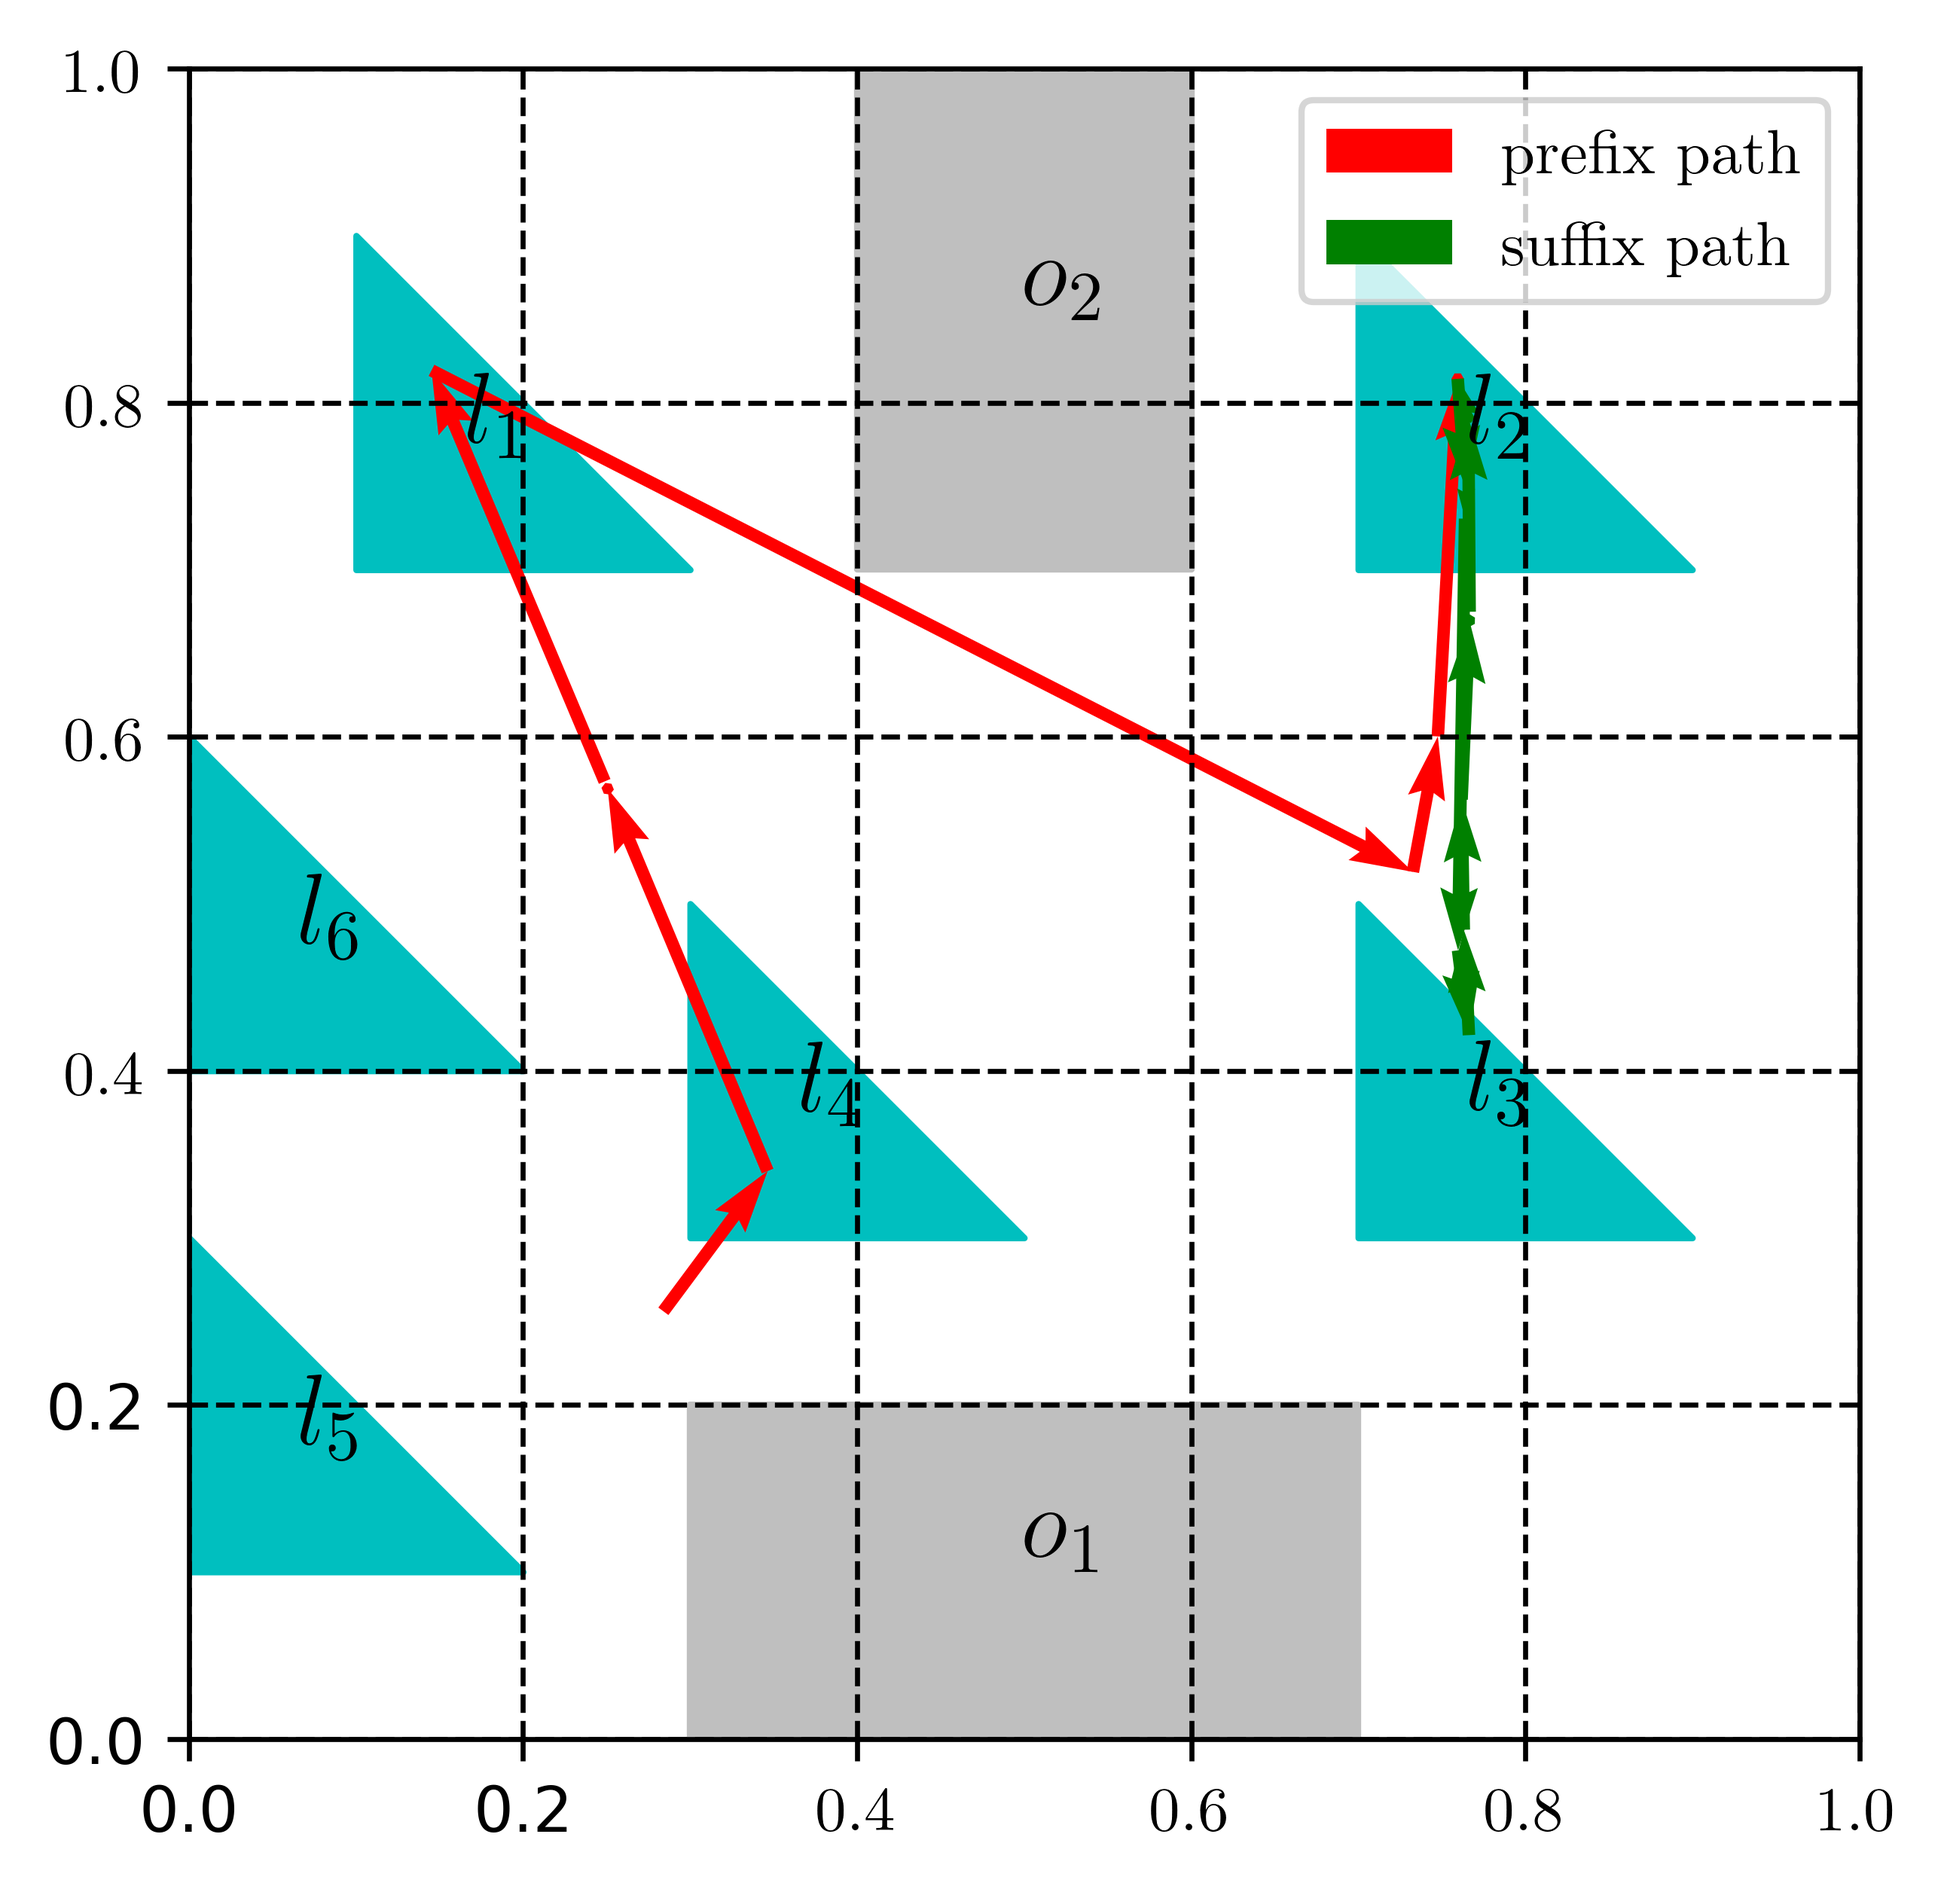
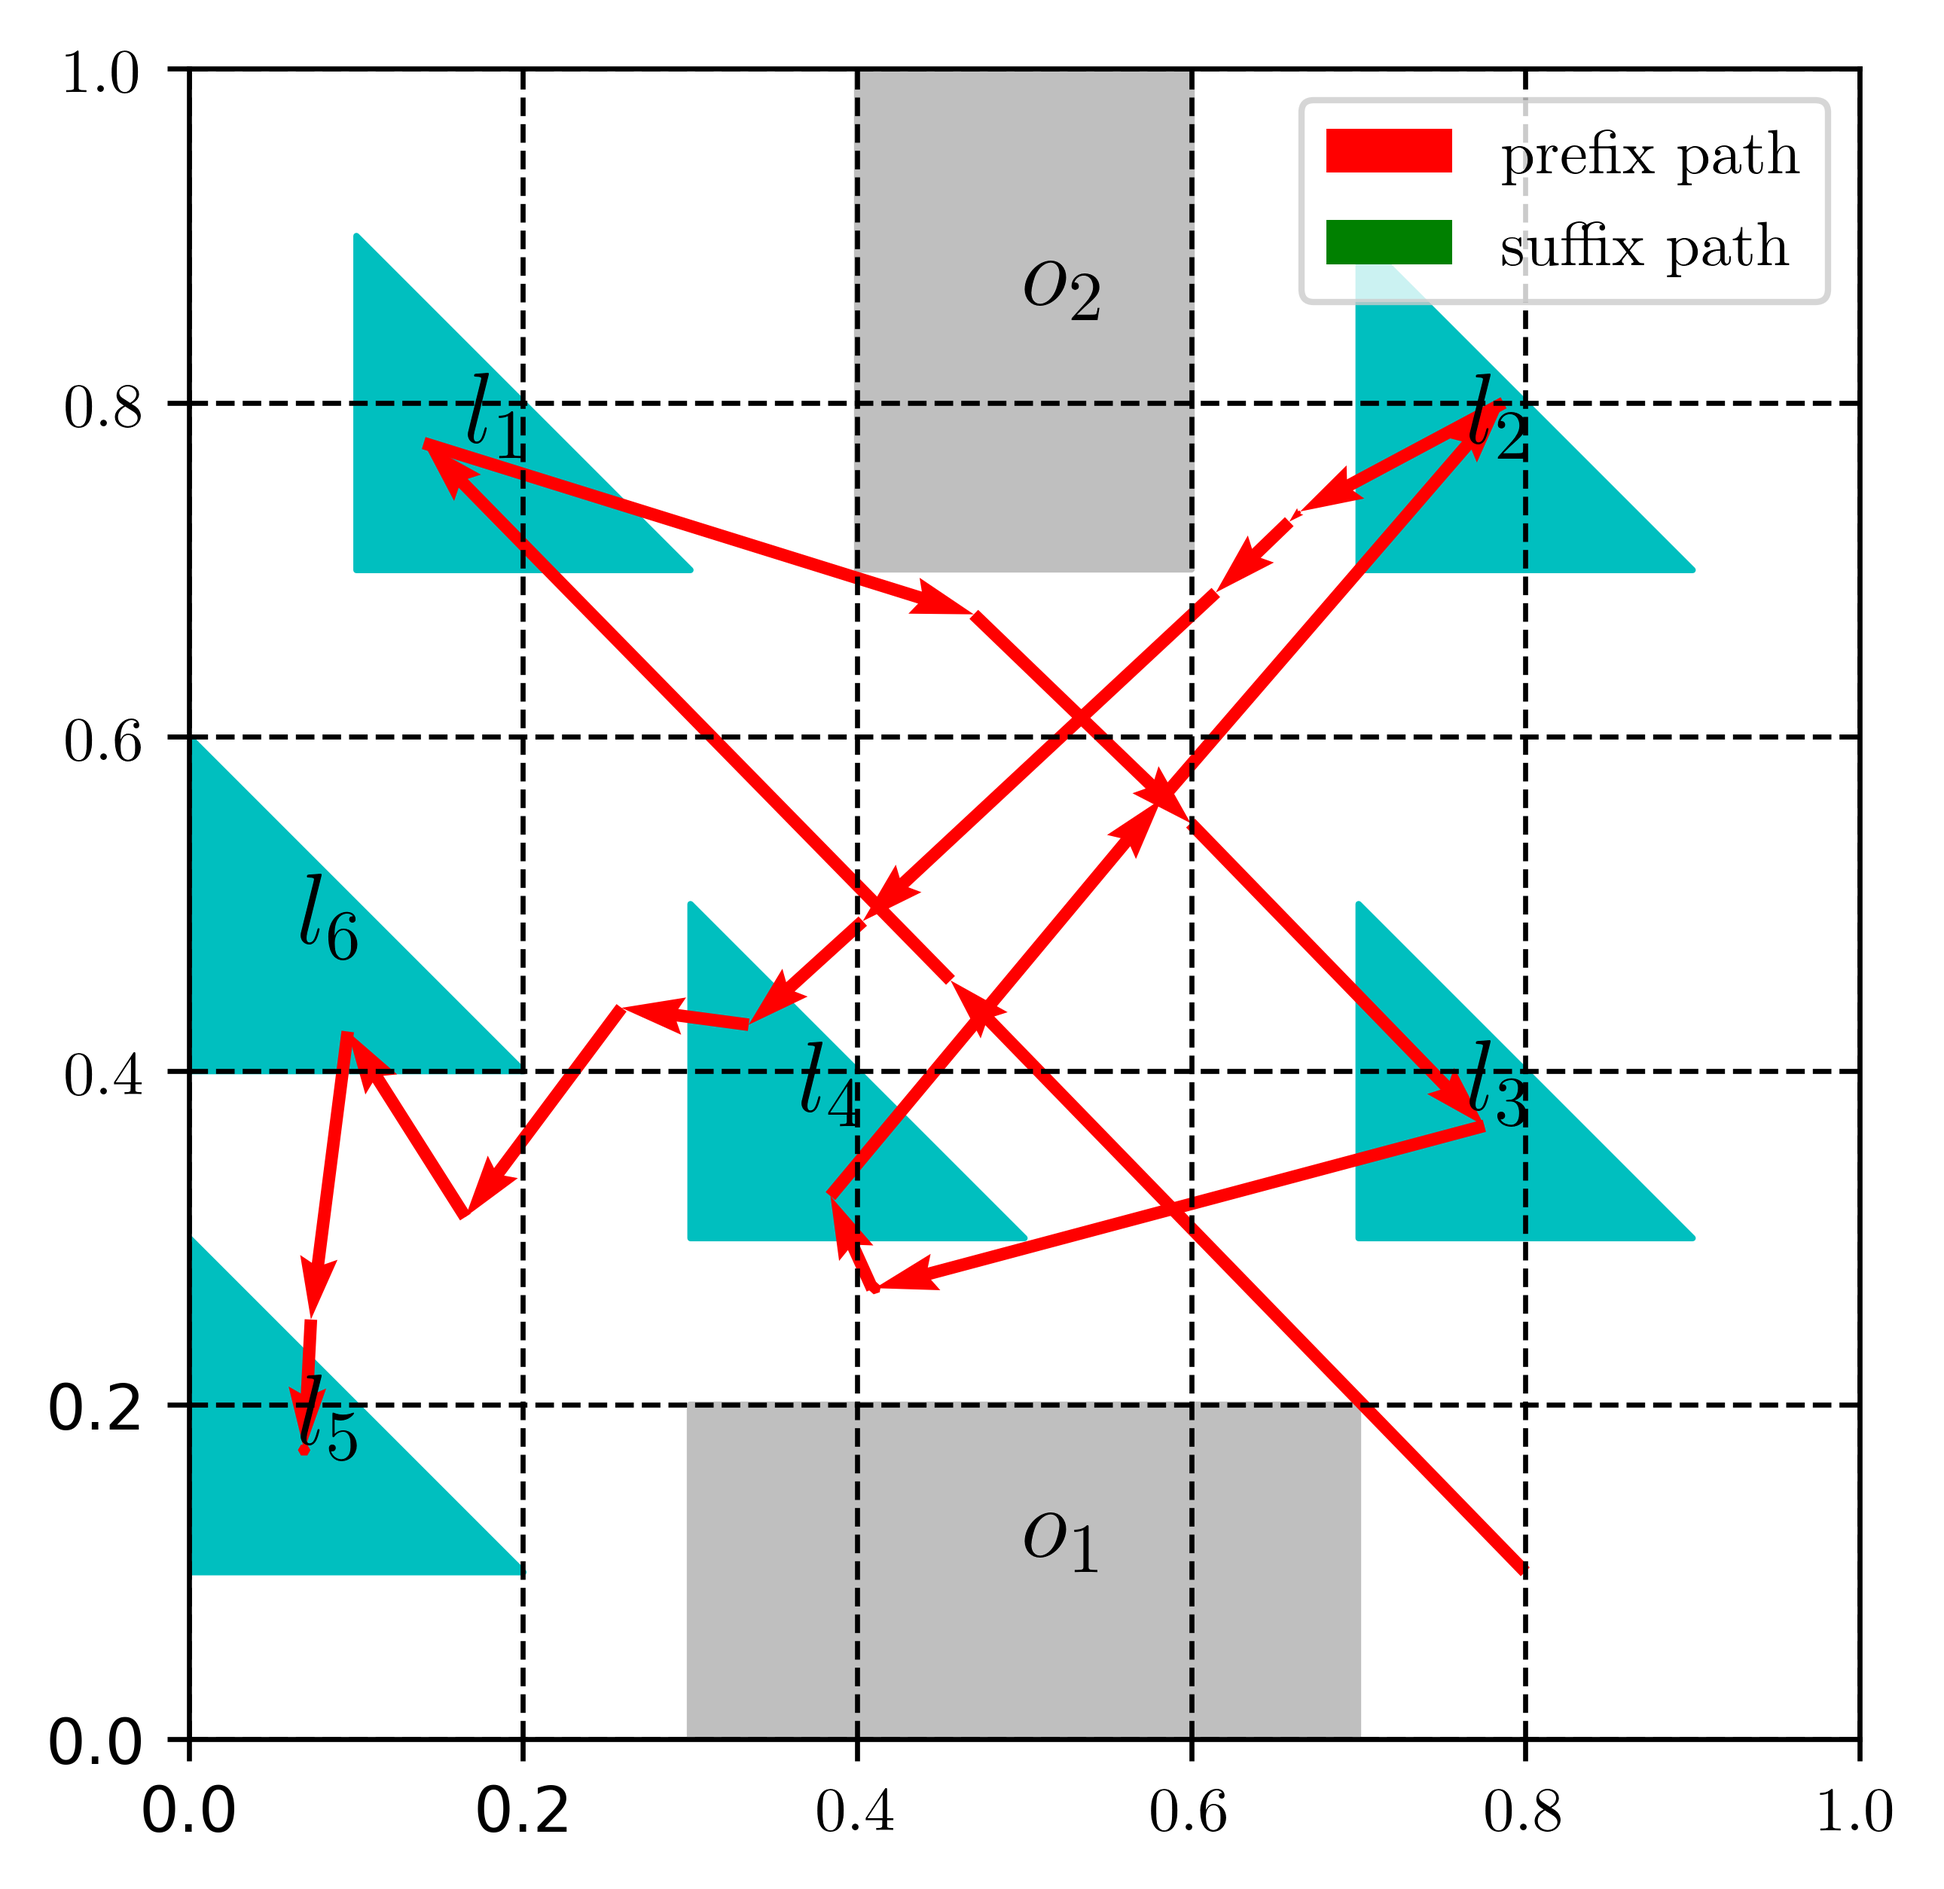
output format

diff --git a/biased_TLRRT_star.py b/biased_TLRRT_star.py
@@ -11,17 +11,24 @@ from construct_biased_tree import construction_biased_tree, path_via_visibility
 from draw_picture import path_plot, path_print
 import matplotlib.pyplot as plt
 import pyvisgraph as vg
+from termcolor import colored
+
 
 # task
+start = datetime.datetime.now()
 task = Task()
 buchi = Buchi(task)
 buchi.construct_buchi_graph()
 buchi.get_minimal_length()
 buchi.get_feasible_accepting_state()
 buchi_graph = buchi.buchi_graph
+NBA_time = (datetime.datetime.now() - start).total_seconds()
+print('Time for constructing the NBA: {0:.4f} s'.format(NBA_time))
+
 # workspace
 workspace = Workspace()
 
+# parameters
 n_max = 40000
 para = dict()
 # lite version, excluding extending and rewiring
@@ -37,37 +44,34 @@ para['threshold'] = 0.005
 
 cost_path = OrderedDict()
 
-start = datetime.datetime.now()
-
 for b_init in buchi_graph.graph['init']:
     # initialization
     opt_cost = (np.inf, 0)
     opt_path_pre = []
     opt_path_suf = []
-    """
-     #----------------------------------------------#
-     |                Prefix Path                   |
-     #----------------------------------------------#
-    """
+
+    # ----------------------------------------------------------------#
+    #                            Prefix Part                          #
+    # ----------------------------------------------------------------#
+
+    start = datetime.datetime.now()
     init_state = (task.init, b_init)
     init_label = task.init_label
     tree_pre = BiasedTree(workspace, buchi, init_state, init_label, 'prefix', para)
-    print('--------------prefix path---------------------')
-    # prefix path with cost
+    print('------------------------------ prefix path --------------------------------')
+    # construct the tree for the prefix part
     cost_path_pre = construction_biased_tree(tree_pre, n_max)
     if len(tree_pre.goals):
         pre_time = (datetime.datetime.now() - start).total_seconds()
-        print('Time for prefix path: {0}'.format(pre_time))
+        print('Time for the prefix path: {0:.4f} s'.format(pre_time))
         print('{0} accepting goals found'.format(len(tree_pre.goals)))
     else:
-        print('Couldn\'t find the path within predetermined iteration')
+        print('Couldn\'t find the path within predetermined number of iteration')
         break
 
-    """
-     #----------------------------------------------#
-     |                Suffix Path                   |
-     #----------------------------------------------#
-    """
+    # ----------------------------------------------------------------#
+    #                            Suffix Part                          #
+    # ----------------------------------------------------------------#
     # treat all regions as obstacles
     polys_suf = []
     for poly in workspace.obs.values():
@@ -77,30 +81,28 @@ for b_init in buchi_graph.graph['init']:
         polys_suf.append([vg.Point(x[0], x[1]) for x in list(poly.exterior.coords)[:-1]])
 
     start = datetime.datetime.now()
-    # # each initial state <=> multiple accepting states
     for i in range(len(tree_pre.goals)):
-    # for i in range(1):
-        # goal product state as the initial state
+        # set the goal product state of the prefix part as the initial state
         init_state = tree_pre.goals[i]
         init_label = tree_pre.biased_tree.nodes[init_state]['label']
         buchi_graph.graph['accept'] = init_state[1]
         tree_suf = BiasedTree(workspace, buchi, init_state, init_label, 'suffix', para)
-        # update accepting buchi state
 
-        # construct suffix tree
+        # construct the tree for the suffix part
         cost_path_suf_cand = construction_biased_tree(tree_suf, n_max)
 
-        print('-----------suffix path for {0}-th goal (of {1} in total)--------------'.format(i, len(tree_pre.goals)))
-        print('{0}-th goal: {1} accepting goals found'.format(i, len(tree_suf.goals)))
+        print('-------------- suffix path for {0}-th pre-goal (of {1} in total) --------------'.format(i+1,
+                                                                                                   len(tree_pre.goals)))
+        print('{0}-th pre-goals: {1} accepting goals found'.format(i, len(tree_suf.goals)))
 
-        # couldn't find the path
+        # couldn't find the path within predtermined number of iterations
         if not cost_path_suf_cand:
             del cost_path_pre[i]
-            print('delete {0}-th item in cost_path_pre, {1} left'.format(i, len(cost_path_pre)))
+            print('delete {0}-th item in cost_path_pre, {1} left'.format(i+1, len(cost_path_pre)))
             continue
         # not trivial suffix path
         if cost_path_suf_cand[0][1]:
-            # find the remaining path to close the loop
+            # find the remaining path to close the loop using the visibility graph
             tree_suf.g = vg.VisGraph()
             tree_suf.g.build(polys_suf, status=False)
             for k in range(len(cost_path_suf_cand)):
@@ -119,17 +121,20 @@ for b_init in buchi_graph.graph['init']:
             opt_cost = [cost_path_pre[i][0], cost_path_suf[0]]  # optimal cost (pre_cost, suf_cost)
 
     suf_time = (datetime.datetime.now() - start).total_seconds()
-    # first pre + suf path
+    print('Time for the suffix path: {0:.4f} s'.format(suf_time))
 
-    """
-     #----------------------------------------------#
-     |                  Pre + Suf                   |
-     #----------------------------------------------#
-    """
+    # ----------------------------------------------------------------#
+    #                       Prefix + Suffix Part                      #
+    # ----------------------------------------------------------------#
 
-    print('Time to find the surfix path: {0}'.format(suf_time))
-    print(pre_time, suf_time, opt_cost[0], opt_cost[1], pre_time + suf_time,
-          (opt_cost[0] + opt_cost[1])/2)
-    # path_plot((opt_path_pre, opt_path_suf), workspace, buchi.number_of_robots)
+    print('------------------------ prefix + suffix path -----------------------------')
+    print('t_pre  | t_suf  | t_total | cost')
+    print("{0:.4f} | {1:.4f} | {2:.4f}  | {3:.4f}".format(pre_time, suf_time, pre_time + suf_time + NBA_time,
+                                                                                        (opt_cost[0] + opt_cost[1])/2))
+
+    # draw the picture
+    print('------------------------- print the path path -----------------------------')
+    print('(. for empty label,', colored('||', 'yellow'), '...', colored('||', 'yellow'), 'for the suffix path)')
     path_print((opt_path_pre, opt_path_suf), workspace, buchi.number_of_robots)
-    # plt.show()
+    path_plot((opt_path_pre, opt_path_suf), workspace, buchi.number_of_robots)
+    plt.show()

diff --git a/task.py b/task.py
@@ -19,7 +19,6 @@ class Task(object):
         |   Boolean operators:       |
         |       !   (negation)       |
         |       ->  (implication)    |
-        |	    <-> (equivalence)    |
         |       &&  (and)            |
         |       ||  (or)             |
         |                            |
@@ -27,14 +26,21 @@ class Task(object):
         |       []  (always)         |
         |       <>  (eventually)     |
         |       U   (until)          |
-        |       V   (release)        |
-        |       X   (next)           |
         +----------------------------+
         """
         workspace = Workspace()
 
-        # task specification, e1-e5 are subfomulas
-        # Task 1 ----------------------------------------------------------
+        # task specification, e_i are subformulas
+        # --------------------------- Task 1 -------------------------------
+        self.formula = '<> e1 && <> e2  && <> e3 && <> e4 && <> e5 && <> e6'
+        self.subformula = {1: '(l1_1)',
+                           2: '(l2_1)',
+                           3: '(l3_1)',
+                           4: '(l4_1)',
+                           5: '(l5_1)',
+                           6: '(l6_1)'
+                           }
+        # --------------------------- Task 2 -------------------------------
         # self.formula = '<> e1 && []<> (e2 && <> e3) && (!e3 U e4) && []!e5'
         # self.subformula = {1: '(l1_1)',
         #                    2: '(l2_1)',
@@ -42,16 +48,13 @@ class Task(object):
         #                    4: '(l4_1)',
         #                    5: '(l5_1)',
         #                    }
-
-        # Task 2 ------------------------------------------------------------
-        # task specification, e1-e5 are subfomulas
-        self.formula = '[]<> e1 && []<> e3 && !e1 U e2'
-        self.subformula = {1: '(l1_1)',
-                           2: '(l6_1)',
-                           3: '(l5_2)'
-                        }
-
-        # Task 3 -------------------------------------------------------------
+        # --------------------------- Task 3 -------------------------------
+        # self.formula = '[]<> e1 && []<> e3 && !e1 U e2'
+        # self.subformula = {1: '(l1_1)',
+        #                    2: '(l6_1)',
+        #                    3: '(l5_2)'
+        #                 }
+        # --------------------------- Task 4 -------------------------------
         # self.formula = '[]<> e1 && []<> e2 && []<> e3 && []<>(e4 && <>(e5 && <> e6))'
         # self.subformula = {
         #     1: '(l1_1 && l1_2)',
@@ -60,8 +63,7 @@ class Task(object):
         #     4: '(l4_1)',
         #     5: '(l5_4)',
         #     6: '(l6_3)'}
-
-        # Task 4 -------------------------------------------------------------
+        # --------------------------- Task 5 -------------------------------
         # randomly generate tasks
         # num_of_robot_in_one_group = 8
         # group = np.array(range(1, self.number_of_robots + 1))
@@ -87,8 +89,8 @@ class Task(object):
         # print(self.subformula)
         # self.formula = '[]<> e1 && []<> e2 && []<> e3 && []<>(e4 && <>(e5 && <> e6)) && <> e7 && []<>e8 && (!e7 U e8)'
 
-        self.number_of_robots = 2   # num_of_robot_in_one_group * 8 for task 4
         # randomly generate initial locations of robots with empty atomic propositions
+        self.number_of_robots = 1   # self.number_of_robots = num_of_robot_in_one_group * 8 for task 5
         self.init = []
         self.init_label = []
         for i in range(self.number_of_robots):
@@ -98,7 +100,10 @@ class Task(object):
                 if 'o' not in ap:
                     break
             self.init.append(tuple(ini))
-            # label
+            # generate the label
             ap = ap + '_' + str(i + 1) if 'l' in ap else ''
             self.init_label.append(ap)
         self.init = tuple(self.init)
+
+        self.init = ((0.8, 0.1), )
+        self.init_label = ['']

diff --git a/draw_picture.py b/draw_picture.py
@@ -5,6 +5,7 @@ import numpy as np
 from matplotlib.patches import Polygon
 from matplotlib.collections import PatchCollection
 from workspace import get_label
+from termcolor import colored
 
 
 def workspace_plot(workspace, r_or_o, id_r_or_o, ax):
@@ -76,7 +77,7 @@ def path_print(path, workspace, number_of_robots):
     :return: printed path of traversed regions. points with empty label are depicted as dots
     """
     for n in range(number_of_robots):
-        print('robot {0}: '.format(n+1), end='')
+        print('robot {0:<2}: '.format(n+1), end='')
         # prefix path, a path of x's or y's of a robot
         x_pre = [point[0][n][0] for point in path[0]]
         y_pre = [point[0][n][1] for point in path[0]]
@@ -100,4 +101,4 @@ def path_print_helper(x, y, workspace):
         label = get_label((x[i], y[i]), workspace)
         label = ' .' if not label else label
         print(label + ' --> ', end='')
-    print('|| ', end='')
+    print(colored('|| ', 'yellow'), end='')

diff --git a/construct_biased_tree.py b/construct_biased_tree.py
@@ -52,7 +52,7 @@ def construction_biased_tree(tree, n_max):
                 tree.rewire(q_new, near_nodes, obs_check)
 
         # first accepting state
-        if len(tree.goals) > 0: break
+        if len(tree.goals): break
 
     return tree.find_path(tree.goals)
 
